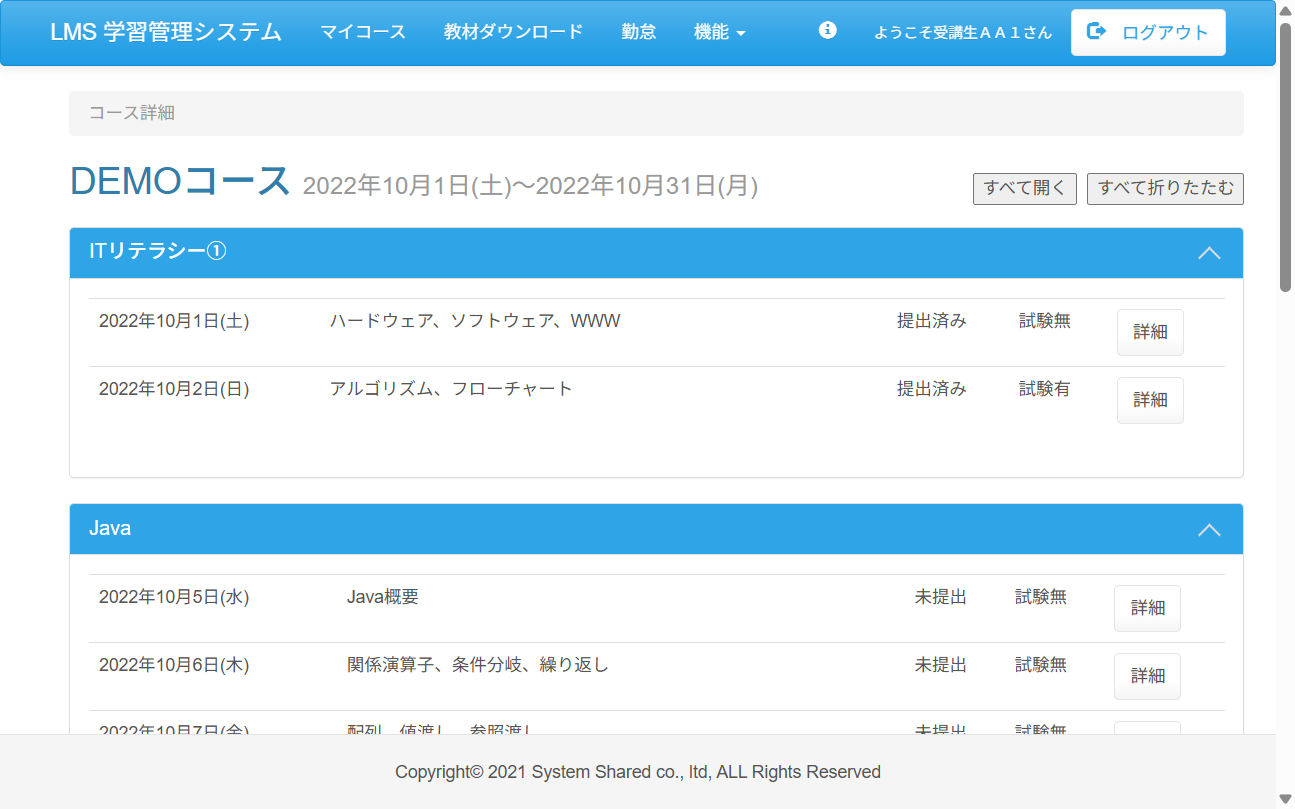
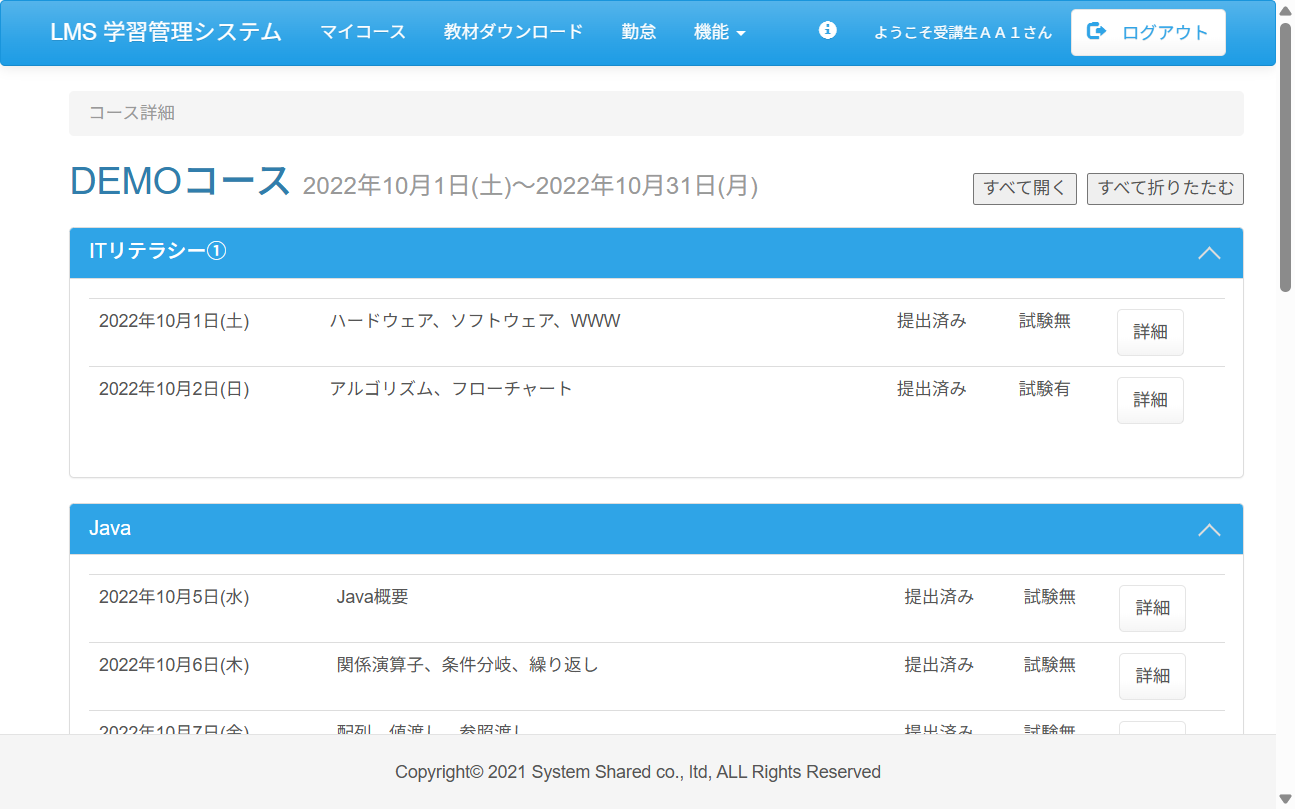
fix:Case05.java よくある質問画面のキーワード検索テスト修正
test06メソッド：
assertThat(keyword.getText()).isNullOrEmpty();
以下に変更↓

assertThat(keyword.getAttribute("value")).isNullOrEmpty();

diff --git a/test_code_creation_name/src/test/java/jp/co/sss/lms/ct/f02_faq/Case05.java b/test_code_creation_name/src/test/java/jp/co/sss/lms/ct/f02_faq/Case05.java
@@ -167,7 +167,7 @@ public class Case05 {
 		WebElement keyword = webDriver.findElement(By.cssSelector("input[type='text']"));
 
 		//入力したキーワードが消去されていることを検証する
-		assertThat(keyword.getText()).isNullOrEmpty();
+		assertThat(keyword.getAttribute("value")).isNullOrEmpty();
 
 		//エビデンス取得
 		getEvidence(new Object() {
